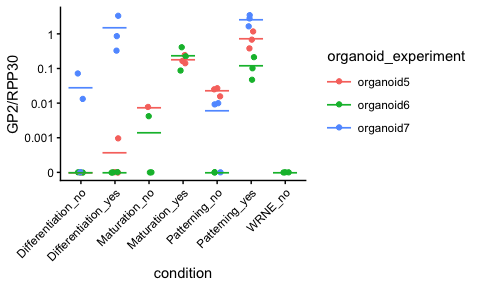
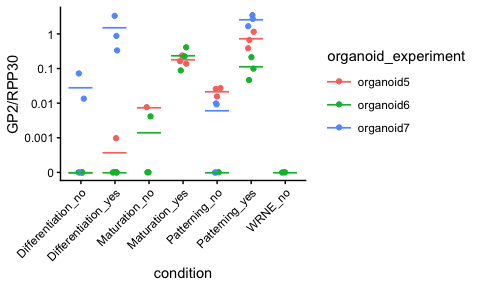
Added alternative plotting approach

diff --git a/scripts/dpcr.md b/scripts/dpcr.md
@@ -29,3 +29,17 @@ The first set of experiments, evaluating "differentiation" media published by Di
 
 ![](dpcr_files/figure-html/plot data-1.png)<!-- -->![](dpcr_files/figure-html/plot data-2.png)<!-- -->![](dpcr_files/figure-html/plot data-3.png)<!-- -->
 
+Alternatively, data can be plotted with media formulation on the x axis and colored based on the inclusion of M cell factors. Here, the data points represent the mean of technical replicates from three independent experiments.  
+![](dpcr_files/figure-html/additional plot options-1.png)<!-- -->![](dpcr_files/figure-html/additional plot options-2.png)<!-- -->![](dpcr_files/figure-html/additional plot options-3.png)<!-- -->
+
+
+We prioritized patterning media in future experiments because it gave the most consistent increases in GP2 and SPIB expression.
+
+## Lymphotoxin wash
+### Experiments 8 and 9
+
+## Alternatives to LTa2b1
+### Experiments 10 and 11
+
+## Organoid stimulation
+### Experiments 12 and 13